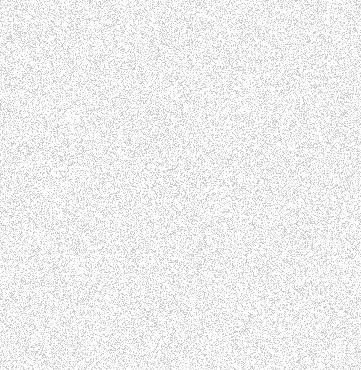
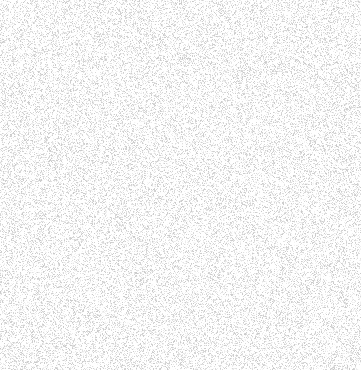
modified noise

diff --git a/css/background.css b/css/background.css
@@ -1,14 +1,14 @@
 .noise-background {
-    /* background: url('http://api.thumbr.it/whitenoise-361x370.png?background=00000000&noise=626262&density=50&opacity=40'); */
+    /* background: url('http://api.thumbr.it/whitenoise-361x370.png?background=00000000&noise=626262&density=40&opacity=35'); */
     background: url('../assets//backgrounds/noise.png');
-    height: 200%;
-    width: 200%;
+    height: 250%;
+    width: 250%;
     background-repeat: repeat;
     position: fixed;
     left: -100%;
     top: -100%;
     z-index: 2;
-    transform: scale(1.5);
+    transform: scale(1.1);
     animation: noise-background-effect 8s steps(10) infinite;
 }
 
@@ -87,34 +87,34 @@
 @keyframes noise-background-effect {
     0%,
     100% {
-        transform: translate(0, 0) scale(1.5);
+        transform: translate(0, 0) scale(1.1);
     }
     10% {
-        transform: translate(-5%, -10%) scale(1.5);
+        transform: translate(-5%, -10%) scale(1.1);
     }
     20% {
-        transform: translate(-15%, 5%) scale(1.5);
+        transform: translate(-15%, 5%) scale(1.1);
     }
     30% {
-        transform: translate(7%, -25%) scale(1.5);
+        transform: translate(7%, -25%) scale(1.1);
     }
     40% {
-        transform: translate(-5%, 25%) scale(1.5);
+        transform: translate(-5%, 25%) scale(1.1);
     }
     50% {
-        transform: translate(-15%, 10%) scale(1.5);
+        transform: translate(-15%, 10%) scale(1.1);
     }
     60% {
-        transform: translate(15%, 0%) scale(1.5);
+        transform: translate(15%, 0%) scale(1.1);
     }
     70% {
-        transform: translate(0%, 15%) scale(1.5);
+        transform: translate(0%, 15%) scale(1.1);
     }
     80% {
-        transform: translate(3%, 35%) scale(1.5);
+        transform: translate(3%, 35%) scale(1.1);
     }
     90% {
-        transform: translate(-10%, 10%) scale(1.5);
+        transform: translate(-10%, 10%) scale(1.1);
     }
 }
 
